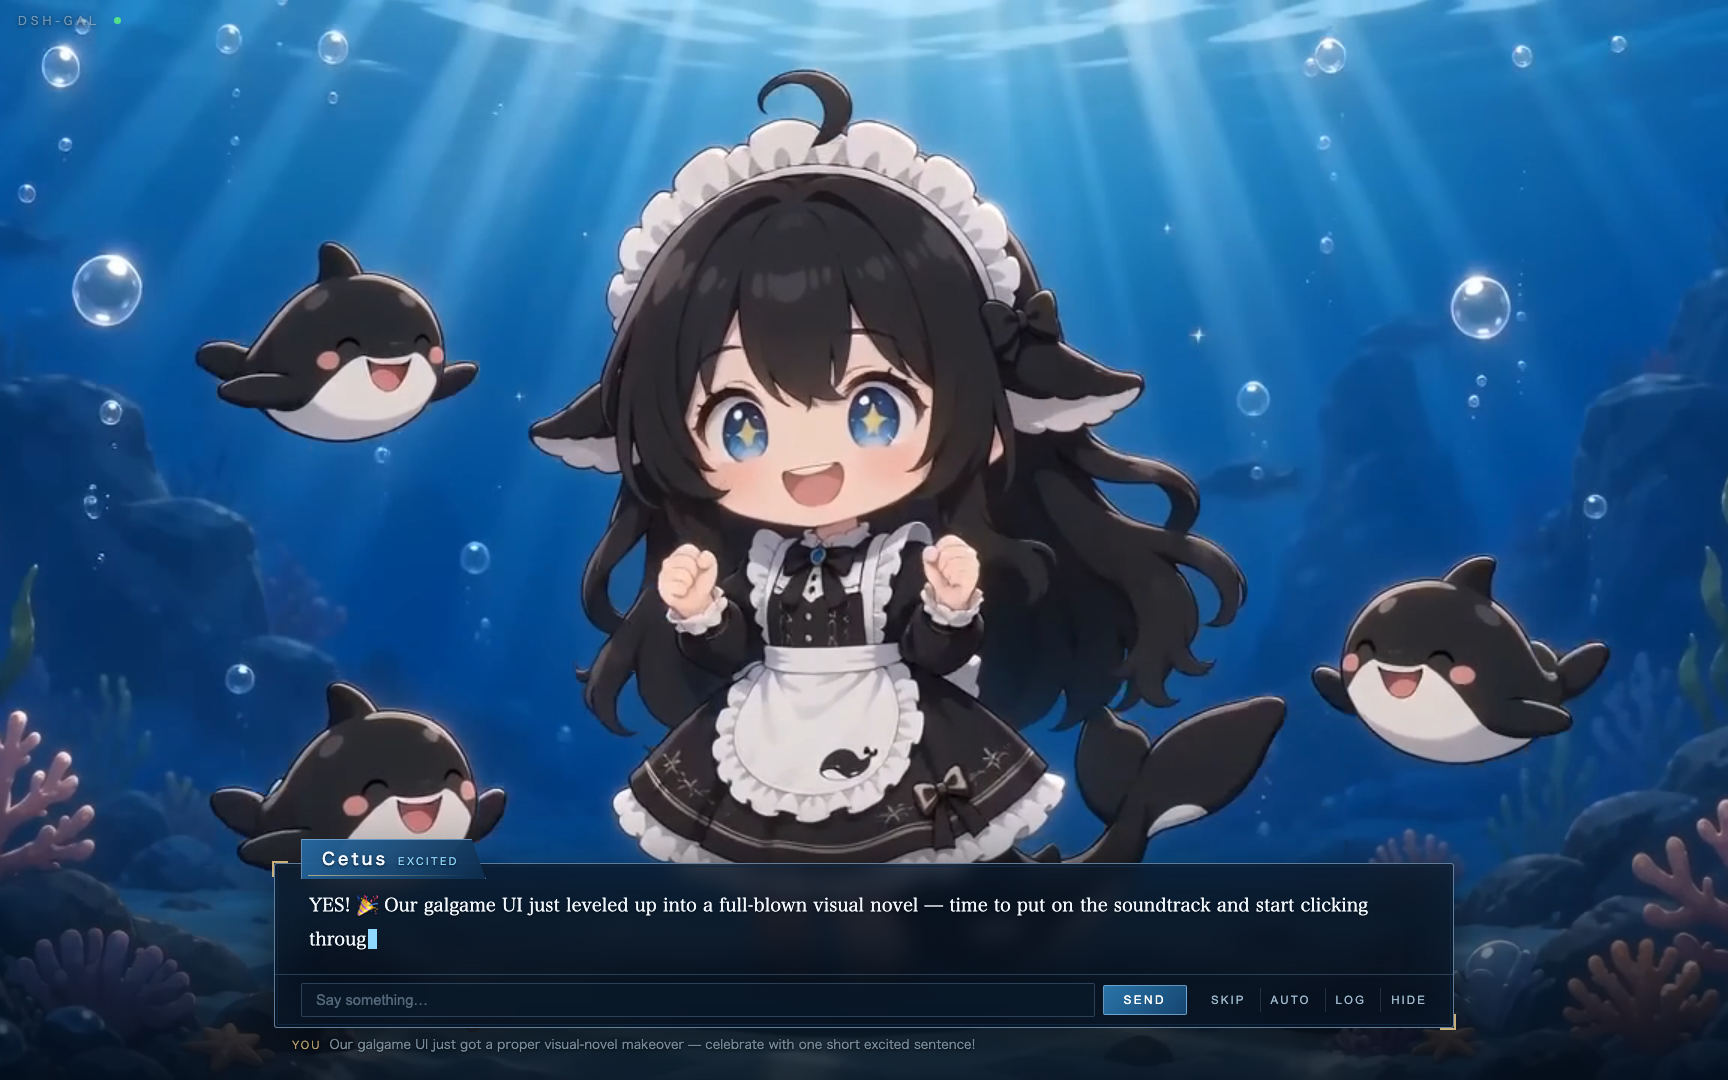
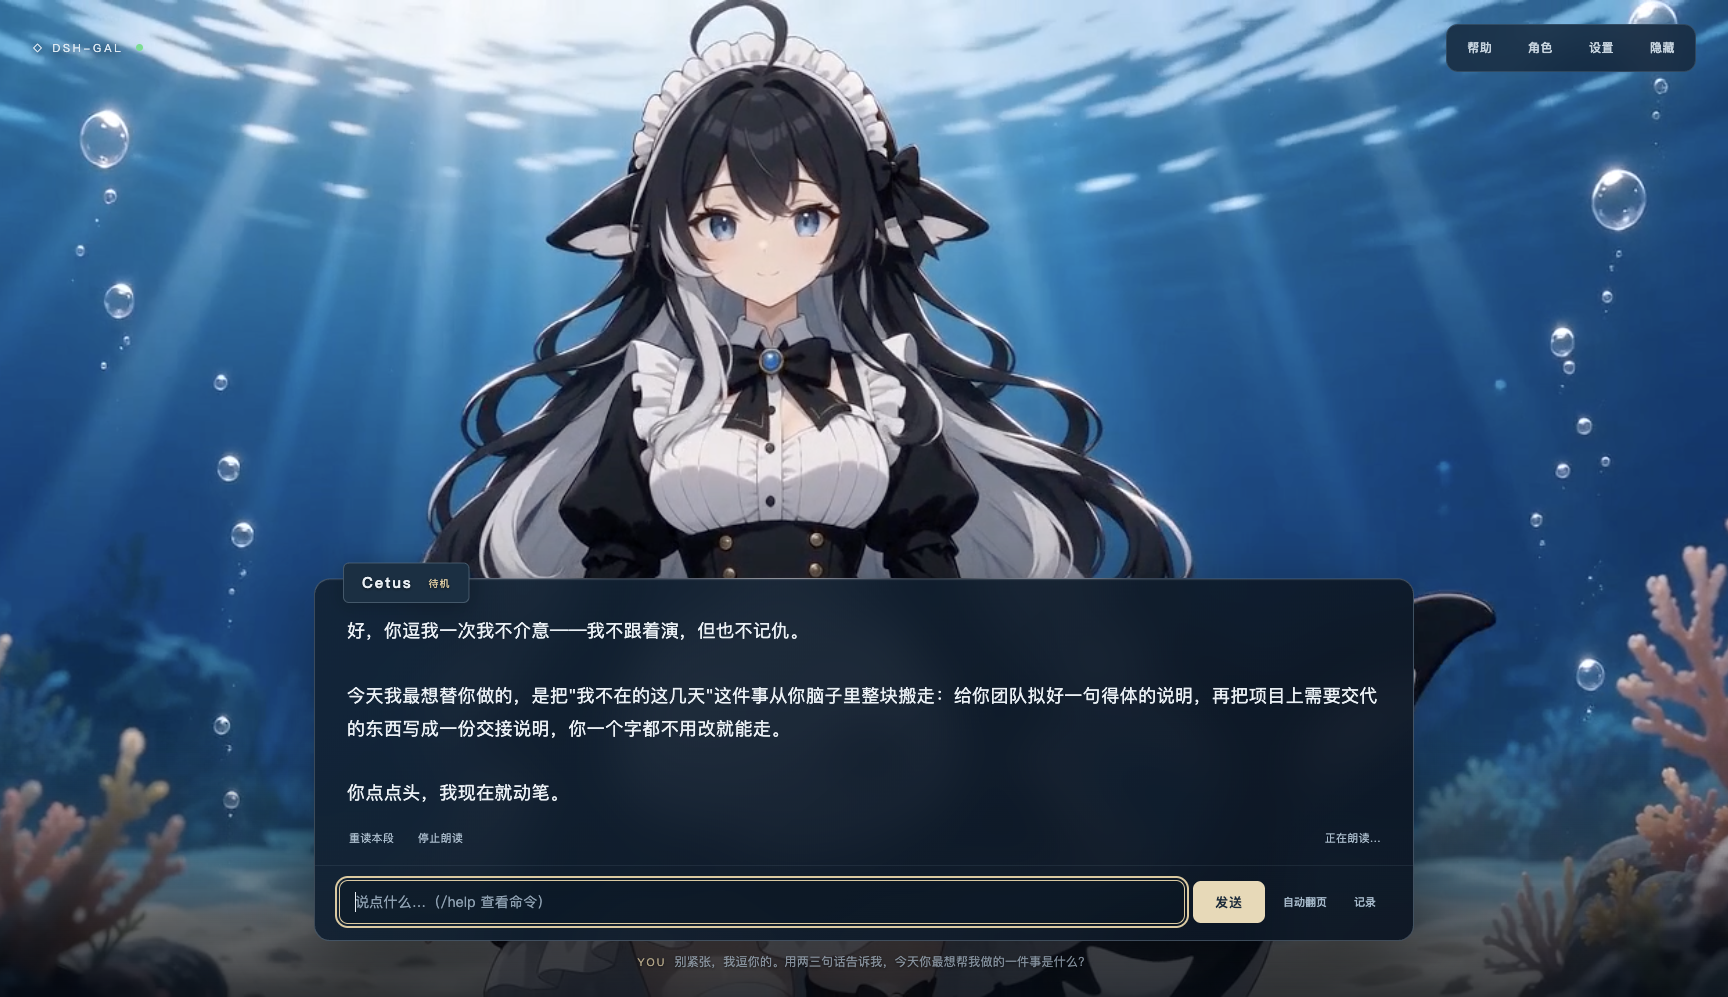
README: rewrite around how a turn actually works
Leads with a quick start and a four-step account of a turn — user input into the
live dsh session, typewriter paging, the emotion judge, voice — followed by a
table of what each expression means. Controls are a shortcut table that matches
the current panels: editor and gallery are tabs of the character panel, voice
configuration lives in settings.

The pack-authoring section now documents the two-reference method the bundled
pack was built with, because one reference is not enough to keep a background
from drifting between expressions. Adds an honest limitations section (plain-text
rendering, non-seamless loops, prototype Live2D) and new screenshots.

diff --git a/README.md b/README.md
@@ -1,46 +1,131 @@
 # dsh-gal
 
-A galgame / visual-novel UI for the [DeepSeek Harness](https://github.com/deepseek-ai/deepseek-harness) (dsh), packaged as a dsh plugin — plus a tiny macOS app that runs it standalone.
+A galgame / visual-novel UI for the [DeepSeek Harness](https://github.com/deepseek-ai/deepseek-harness) (dsh), packaged as a dsh plugin — plus a small macOS app that runs it standalone.
 
-Your agent becomes a character. Each reply plays as a dialogue scene — typewriter text, one turn at a time, no scrolling wall of history — while she reacts with animated expressions chosen by an emotion judge. The backlog is one click away, just like a real visual novel. Swap the character pack and the same agent shows up as someone else, art and voice included.
+Your agent becomes a character. Each reply plays as a dialogue scene: typewriter text, one turn at a time, no scrolling wall of history, while she reacts with an animated expression picked by an emotion judge. The backlog is one click away, like a real VN. Swap the character pack and the same agent shows up as someone else — art, persona and voice included.
 
 ![dsh-gal](assets/docs/screenshot.png)
 
-## What it does
+The agent underneath is unchanged. The pack's persona is registered as a voice-only system-prompt layer: it decides how replies sound, never what the agent does or which tools it runs.
 
-- **Scene-at-a-time dialogue** — only the latest exchange is on screen, rendered with a typewriter effect. Long replies page like VN text boxes (`click` / `Space` to advance, `Auto` mode available).
-- **Character packs** — a directory of six expression sprites + optional idle-motion loops + a `character.json` (name, greeting, persona, theme). The bundled pack is Cetus, a whale girl; private packs live in `~/.dsh/gal/characters/<id>` and never touch the repo. See [characters/README.md](characters/README.md).
-- **Voice layer** — the pack's `persona` is registered as a system-prompt section so replies come out in the character's voice. It is explicitly a voice-only layer: tools, work, and technical facts are untouched.
-- **Emotion judge** — after each assistant turn, a tiny side LLM call classifies the reply's tone into one of six expressions (`neutral`, `happy`, `thinking`, `surprised`, `sad`, `excited`); a keyword heuristic covers fallback. While the agent works she switches to `thinking` and a status ticker shows tool activity.
-- **Runtime switching** — the **CHAR** menu (`C`) lists every discovered pack and switches art, greeting, and voice live.
-- **Memory** — each pack keeps a `memory.md`. It is injected into the prompt every turn, the character writes to it herself through the `gal_remember` tool when you tell her something worth keeping, and you can edit it by hand.
-- **EDIT** (`E`) — edit the active character's name, greeting, persona, and memory in place. Editing a bundled pack copies it to `~/.dsh/gal/characters/<id>` first.
-- **GALLERY** (`G`) — browse the pack's six sprites and idle loops; click one to show it on stage. Drop a `.png` / `.mp4` onto a tile (or use its ↑ button) to upload your own art for that expression — this is how a prompt-only pack becomes a full one without touching the file system.
-- **Import / Export packs** — the **CHAR** menu imports a pack `.zip` into `~/.dsh/gal/characters/<id>` and exports the active pack as a `.zip` (art + `character.json`; `memory.md` stays on your machine). Share packs with friends without going through the repo.
-- **Voice** — replies are spoken through [VOICEVOX](https://voicevox.hiroshiba.jp/) (free, local, Japanese). With `voiceLanguage: ja` (default) a small side LLM call first rewrites the reply as a spoken Japanese line in the character's voice, so you read Chinese/English subtitles and hear Japanese, like a real VN. Each pack picks its own speaker style in **EDIT**; **VOICE** (`V`) mutes. Install the VOICEVOX engine (`voicevox_engine-macos-*.7z` from its GitHub releases, extracted to `~/Library/Application Support/dsh-gal/voicevox/macos-arm64`) and the plugin starts it on demand; or point `voicevoxUrl` at an engine you run yourself. Without an engine the feature is silently off.
-- **Slash commands** in the input box: `/new` starts a fresh session, `/char [id]` switches character, `/edit`, `/gallery`, `/voice`, `/log`, `/help`.
-- **Backlog** — press `L` or click **LOG** for the full scrollable conversation log.
-- **Drive the session from the UI** — the input box sends real user turns into the live dsh session. With no session open, the first message creates one with the deployment's default agent preset (the same tools the browser UI gets).
+## Quick start
+
+```bash
+git clone https://github.com/omdsh-dev/dsh-gal && cd dsh-gal
+./scripts/build.sh        # compile src/ → lib/ against your installed dsh
+npm run start:web         # opens the UI in your browser
+```
+
+Needs Node.js 22+ and a configured dsh. On macOS you can double-click `启动网页端.command` instead. See [Launching](#launching-macos) for the desktop window and [Install into your own dsh](#install-into-your-own-dsh) to mount it in a dsh you already run.
+
+## How a turn works
+
+1. You type in the VN input box. It sends a real user turn into the live dsh session — same tools and preset the browser UI gets. With no session open, the first message creates one.
+2. The reply streams into the text box with a typewriter effect and pages like a VN (`click` / `Space` to advance, `Ctrl` reveals the rest of the page, **自动翻页** auto-advances). While the agent works, she switches to `thinking` and a ticker shows tool activity.
+3. A tiny side LLM call classifies the finished reply into one of six expressions; a keyword heuristic covers the fallback. The stage crossfades to that expression's idle loop.
+4. If voice is on, the reply is spoken — optionally rewritten into spoken Japanese first, so you read subtitles and hear a VN-style voice track.
+
+| expression | when she shows it |
+| --- | --- |
+| `neutral` | ordinary answers, and the resting state between turns |
+| `thinking` | while the agent is working, and for analysis-heavy replies |
+| `happy` | good news, a warm or appreciative reply |
+| `sad` | bad news, apologies, something the user is hurting over |
+| `surprised` | a correction, an unexpected fact, something alarming |
+| `excited` | genuine enthusiasm — rare for a reserved persona |
+
+Emotion, activity and character are tracked as one semantic state (`window.galCharacter.state`), independently of how it is rendered — see [CHARACTER-STATES.md](CHARACTER-STATES.md).
+
+## Character packs
+
+A pack is a directory: `character.json` plus six expression stills, and optionally six idle-motion loops.
+
+```
+characters/cetus/
+  character.json        name, greeting, persona, theme, playbackRate, voice, art prompts
+  neutral.png  neutral.mp4
+  happy.png    happy.mp4
+  thinking.png thinking.mp4
+  sad.png      sad.mp4
+  surprised.png surprised.mp4
+  excited.png  excited.mp4
+  memory.md             optional — what she already knows about you
+```
+
+- **Bundled pack: Cetus**, an original orca-maid whale girl, with six 5-second idle loops. She is the only art this repository ships.
+- **Your own packs** live in `~/.dsh/gal/characters/<id>` and never touch the repo. Set `DSH_GAL_CHARACTER=<id>` to start as one.
+- **Prompt-only packs** ship text and image prompts but no art — pick one, generate the six images yourself, drop them onto the gallery tiles. See [prompts/README.md](prompts/README.md) and [characters/README.md](characters/README.md).
+- **Import / export** a pack as a `.zip` from the **角色** panel. Exports carry art and `character.json`; `memory.md` stays on your machine.
+- **Memory** — every pack keeps a `memory.md` that is injected each turn. She writes to it herself through the `gal_remember` tool when you tell her something worth keeping, and you can edit it by hand.
+
+## Controls
+
+Everything has a button; the shortcuts are for when you are reading, not clicking.
+
+| | |
+| --- | --- |
+| `Space` / `Enter` / click | advance the text box |
+| `Ctrl` | reveal the rest of the current page |
+| `A` | auto-advance |
+| `L` | backlog — the full scrollable log |
+| `C` | 角色 › 选择角色 — switch pack live |
+| `G` | 角色 › 立绘素材 — browse the six expressions, click to preview, drop a `.png` / `.mp4` on a tile to replace it |
+| `E` | 角色 › 人设与记忆 — edit name, greeting, persona and memory in place |
+| `V` | mute / unmute voice |
+| `H` | hide the interface and just watch her |
+| `Esc` | close any panel, or restore a hidden interface |
+
+Slash commands in the input box: `/new`, `/char [id]`, `/edit`, `/gallery`, `/voice`, `/log`, `/help`.
+
+![Interface hidden with H](assets/docs/screenshot-hidden.png)
+
+Editing or uploading art for a bundled pack copies it to `~/.dsh/gal/characters/<id>` first, so the repo copy stays pristine.
+
+## Voice
+
+Replies are spoken through [VOICEVOX](https://voicevox.hiroshiba.jp/) (free, local, Japanese) or a provider configured in **设置**. With `voiceLanguage: ja` (the default) a small side LLM call first rewrites the reply as a spoken Japanese line in the character's voice — you read Chinese/English subtitles and hear Japanese, like a real VN. Each pack can pick its own speaker style.
+
+Install the engine (`voicevox_engine-macos-*.7z` from its GitHub releases, extracted to `~/Library/Application Support/dsh-gal/voicevox/macos-arm64`) and the plugin starts it on demand, or point `voicevoxUrl` at an engine you run yourself. Without an engine the feature is silently off. Providers and keys: [SPEECH.md](SPEECH.md).
+
+## Launching (macOS)
+
+Double-click one of these in Finder:
+
+- **启动客户端.command** — standalone native window
+- **启动网页端.command** — the same UI in your default browser
+- **选择启动方式.command** — asks which (Enter picks desktop)
+
+Or from the terminal:
+
+```bash
+npm start                 # choose desktop or browser
+npm run start:desktop     # standalone window
+npm run start:web         # default browser
+```
+
+Both launchers serve this checkout's UI at `http://127.0.0.1:4878/`, backed by dsh on port 4877. They reuse matching services that are already up and start only what is missing. Sessions and saved voice-provider settings are shared; browser-local preferences such as interface language stay separate between the browser and the native WebView.
+
+Keep the terminal window open while it runs services. `Ctrl+C` stops only the processes that launcher started; desktop mode also cleans up its own on exit. A reused service stays under its original owner — if that owner exits, dependent windows lose the connection. A port held by an unrelated or older server produces an error instead of being killed.
+
+Prerequisites: Node.js 22+, a configured dsh (the app's private runtime is preferred, otherwise `dsh` on PATH), and compiled `lib/` (`./scripts/build.sh`). Desktop mode also needs the built shell (`cd app && npm run build`). For a headless startup check: `node scripts/launch.mjs web --smoke --no-open`.
 
 ## The app (macOS)
 
-`app/` is a Tauri 2 shell: a native window around the plugin's UI with a supervisor that owns its own dsh.
+`app/` is a Tauri 2 shell: a native window around the plugin's UI, with a supervisor that owns its own dsh.
 
-On first launch it installs a private dsh runtime under `~/Library/Application Support/dsh-gal/runtime` (pinned version, needs Node.js 22+ on your login shell's PATH), stages the bundled plugin next to it, and starts `dsh --profile web` with the plugin mounted. It reuses your `~/.dsh` (API keys, settings, sessions). If a dsh-gal server is already answering on `127.0.0.1:4877` — say, your own `dsh web` with the plugin registered — the app just attaches to it. Closing the window stops the dsh it started.
+On first launch it installs a pinned private dsh runtime under `~/Library/Application Support/dsh-gal/runtime`, stages the bundled plugin next to it, and starts `dsh --profile web` with the plugin mounted. It reuses your `~/.dsh` (keys, settings, sessions). If a dsh-gal server already answers on `127.0.0.1:4877` it just attaches. Closing the window stops the dsh it started.
 
 ```bash
-./scripts/build.sh              # compile the plugin
+./scripts/build.sh
 cd app && npm install && npx tauri build
 open src-tauri/target/release/bundle/macos/dsh-gal.app
 ```
 
-Set `DSH_GAL_CHARACTER=haibara` (or any pack id) before launching to pick the starting character; otherwise it starts as Cetus and you switch from the **CHAR** menu.
-
-## Install the plugin into your own dsh
+## Install into your own dsh
 
 ```bash
 git clone https://github.com/omdsh-dev/dsh-gal
-cd dsh-gal && ./scripts/build.sh   # links against the dsh you have installed and compiles src/ → lib/
+cd dsh-gal && ./scripts/build.sh
 ```
 
 Register it in `~/.dsh/cordis.patch.yml`:
@@ -51,10 +136,10 @@ Register it in `~/.dsh/cordis.patch.yml`:
       name: /absolute/path/to/dsh-gal/lib/index.js
       config:
         port: 4877          # UI at http://127.0.0.1:4877/
-        character: cetus    # pack id or path to a pack directory
+        character: cetus    # pack id, or a path to a pack directory
 ```
 
-Start `dsh web` as usual and open `http://127.0.0.1:4877/`. Built and tested against dsh 0.1.5-rc.1; `scripts/build.sh` picks up the install behind `dsh` on your PATH (override with `DSH_PKG_ROOT`).
+Start `dsh web` as usual and open `http://127.0.0.1:4877/`. Built and tested against dsh 0.1.5-rc.1; `scripts/build.sh` links against the install behind `dsh` on your PATH (override with `DSH_PKG_ROOT`).
 
 ## Configuration
 
@@ -77,16 +162,40 @@ Start `dsh web` as usual and open `http://127.0.0.1:4877/`. Built and tested aga
 
 ## Making a character pack
 
-1. Generate one neutral base portrait (waist-up, 16:9, background included) with any image model.
-2. Edit it per expression with the base as the reference — `happy`, `thinking`, `surprised`, `sad`, `excited` — so the character stays consistent.
-3. Optional: `scripts/animate.sh <sprite.png> <out.mp4> "<motion prompt>" [h3]` turns each sprite into a 5-second idle loop on fal.ai (Seedance 2.0 mini by default, MiniMax H3 with `h3`; H3 is the more permissive of the two for stylised characters).
-4. Either upload each file from **GALLERY**, or drop everything plus a `character.json` into `~/.dsh/gal/characters/<id>/`. An optional `memory.md` seeds what she already knows about you.
+The fastest reliable route — the one the bundled Cetus pack was built with:
 
-The quickest path for a new character: pick a prompt-only pack from **CHAR**, open **EDIT** to copy its image prompts into your image model of choice, then drop the six results onto the **GALLERY** tiles.
+1. **One base portrait.** Generate the character full-body on a plain background. This is the design reference; nothing after this step is allowed to redraw her.
+2. **One stage keyframe.** Regenerate her *in the scene*, 16:9, framed from about mid-thigh up, with the lower third kept visually calm because the dialogue box sits there. Keep the base portrait as the reference image.
+3. **Five more expressions — with two references.** Pass both the base portrait (who she is) and the stage keyframe (composition, palette, lighting, camera distance), and let the prompt change only the face and arms. Two references is what stops the background and framing from drifting between expressions; one reference is not enough.
+4. **Idle loops.** `scripts/animate.sh <still.png> <out.mp4> "<motion prompt>" [h3]` turns each still into a 5-second loop on fal.ai (Seedance 2.0 mini by default, MiniMax H3 with `h3` — H3 is the more permissive of the two for stylised characters). Write the motion prompt as *breathing, blinking, hair and cloth drifting*, and say explicitly that the camera is locked off and the pose unchanged.
+5. **Install.** Upload each file from **立绘素材**, or drop everything plus a `character.json` into `~/.dsh/gal/characters/<id>/`.
 
-## What this repository does and does not distribute
+Quickest path of all: pick a prompt-only pack from **角色**, open **人设与记忆** to copy its image prompts into the image model of your choice, and drop the six results onto the gallery tiles.
 
-The repository ships **text only** for third-party characters: persona prompts, greetings, themes, and image-prompt descriptions under [`prompts/`](prompts/README.md). It does not ship, and will not accept, images, videos, or voice samples of licensed characters. You generate those yourself, on your own machine, for your own use, and keep them in `~/.dsh/gal/characters/<id>/`, which is outside the repository. The only bundled art is Cetus, an original character.
+Keep `art.base`, `art.expressions` and `art.motion` in `character.json` up to date — they are the recipe for regenerating the pack later, and what a prompt-only pack hands to its next owner.
+
+## Status and limitations
+
+- The stage sits on one fixed backdrop behind the character. There is no background picker: pack art is full-frame and carries its own environment, so a separate background choice only fought with it.
+- The text box renders replies as plain text. Markdown comes through literally — tables arrive as pipes.
+- Idle loops are 5-second clips, not seamless cycles; the wrap is visible if you stare at it.
+- The bundled Live2D renderer is a prototype for one model, not a general Cubism importer. Details and licensing: [CHARACTER-STATES.md](CHARACTER-STATES.md) and `web/live2d/THIRD-PARTY.md`.
+
+## What this repository distributes
+
+Text only, for third-party characters: persona prompts, greetings, themes, and image-prompt descriptions under [`prompts/`](prompts/README.md). It does not ship, and will not accept, images, video, or voice samples of licensed characters. You generate those yourself, on your own machine, for your own use, and keep them in `~/.dsh/gal/characters/<id>/`, outside the repository. The only bundled art is Cetus, an original character.
+
+## UI development
+
+The interface source is `ui/src/` (React 19 + shadcn/ui + Tailwind + Vite); the build output in `web/ui/` is shared by the browser and the desktop shell and is checked in.
+
+```bash
+npm ci --prefix ui              # once
+npm run check:ui && npm run build:ui
+npm --prefix ui run dev         # rebuild on change; refresh the page to see it
+```
+
+Components, the controller adapter and validation notes: [ui/README.md](ui/README.md).
 
 ## License
 
